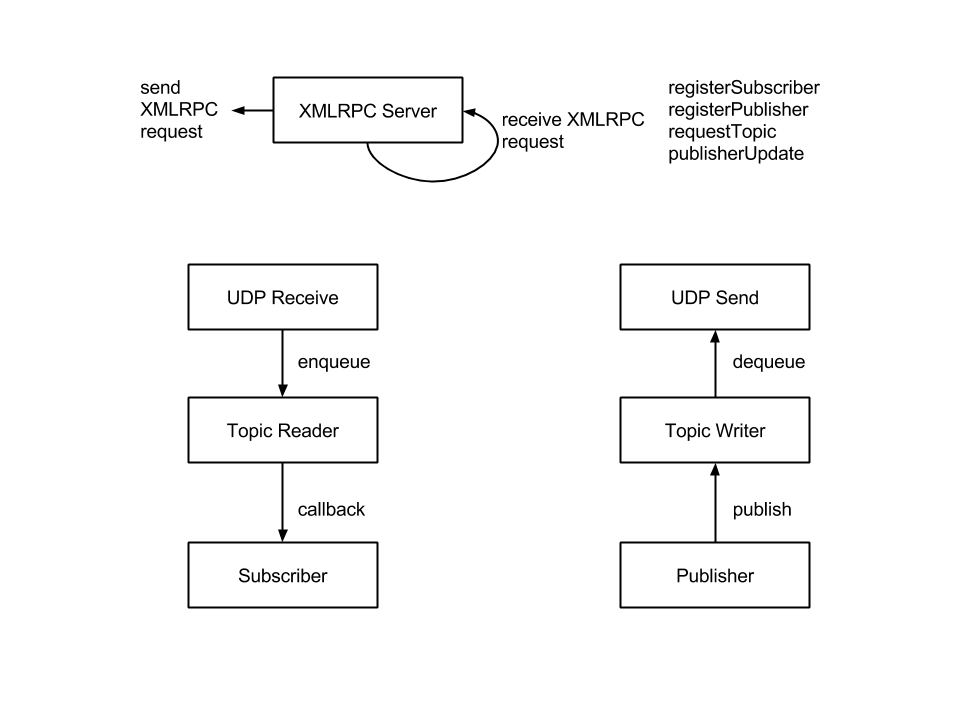
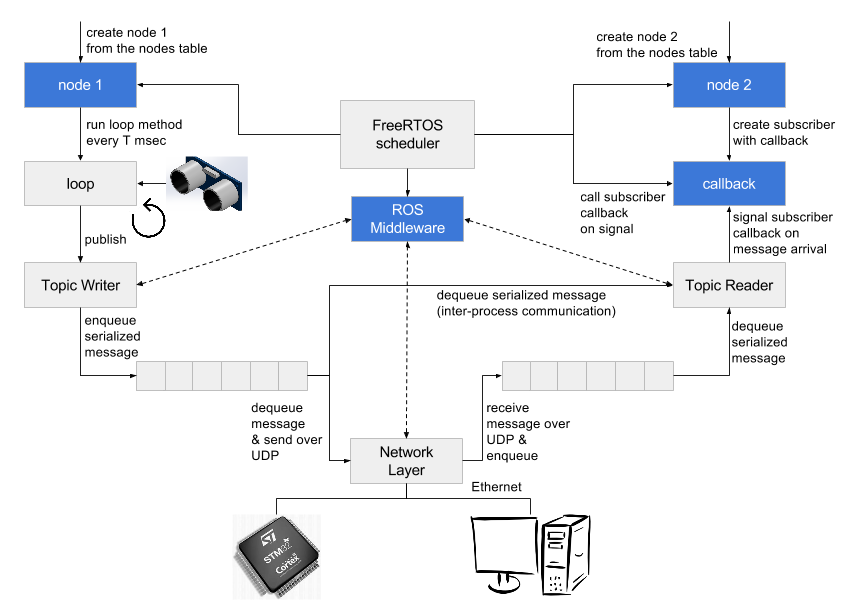
Modified readme, updated ROS.png

diff --git a/README.md b/README.md
@@ -1,15 +1,7 @@
 # ROS on STM32
 
-### Introduction
-
-This software introduces ROS on a bare-metal operating system, which is FreeRTOS in this example. Here is briefly what this software does:
-- Easy to create nodes with subscriber callbacks and publisher calls.
-- API looks very similar to roscpp.
-- Deterministic behavior using bare-metal OS constructs.
-- Inter-node communication.
-
 ### Description
-Software for distributing nodes in a multi-node ROS system on STM32 microcontroller. It consists of a multi-tasking operating system (FreeRTOS), ROS middleware, ROS client library, and application tasks. Currently, only subscribing and publishing are supported. There is an XMLRPC server for communicating with the ROS master node. UDPReceive and UDPSend tasks are used to receive/send packets over UDP where this software only supports the UDPROS protocol.
+An embedded system supporting multiple ROS nodes that are able to communicate with one another using inter-process communication and with other ROS-compatible devices over a network. This system consists of an STM32F4Discovery board, the FreeRTOS operating system, an embedded ROS middleware, and an embedded ROS client library. Application layer is the layer for ROS nodes and sensor libraries.
 
 
 |           Layers          |
@@ -22,20 +14,12 @@ Software for distributing nodes in a multi-node ROS system on STM32 microcontrol
 |        Hardware (STM32F4)       |
 
 
+The software concept is shown in the below image. Blue blocks represent FreeRTOS tasks.
 
-Similar to the ROS 2.0 middleware implementation, there are TopicReaders and TopicWriters as if DDS was being used. This abstraction will make it easier to replace the XMLRPC+UDP mechanism by DDS in the future.
+![](https://github.com/bosch-ros-pkg/stm32/blob/refactored/ROS.png)
 
-In the below image, it is shown how TopicReaders/Writers, UDPReceive/Send tasks, and Publishers/Subscribers relate to one another.
-
-![](https://github.com/bosch-ros-pkg/stm32/blob/eclipse/ROS.png)
-
-## Notes:
-- Node functions specified in application_tasks.h (a task table).
-- Data transfer is implemented using UDP.
-- Very simple XMLRPC handling (no XML parser is used).
+### Notes:
+- Node functions specified in nodes.h (a task table).
+- Data transfer is implemented using UDPROS.
+- Very simple XMLRPC handling (no XML parser is used) to make negotiations with ROS master on a PC.
 - Messages are serialized using C++ headers generated with rosserial's message generator based on Python.
-
-### TODO:
-- Test the real-time behavior.
-- Make sure UDP receiving does not block UDP sending or vice versa. (Check the maximum number of concurrent UDP/TCP connections)
-- Real-world example.
